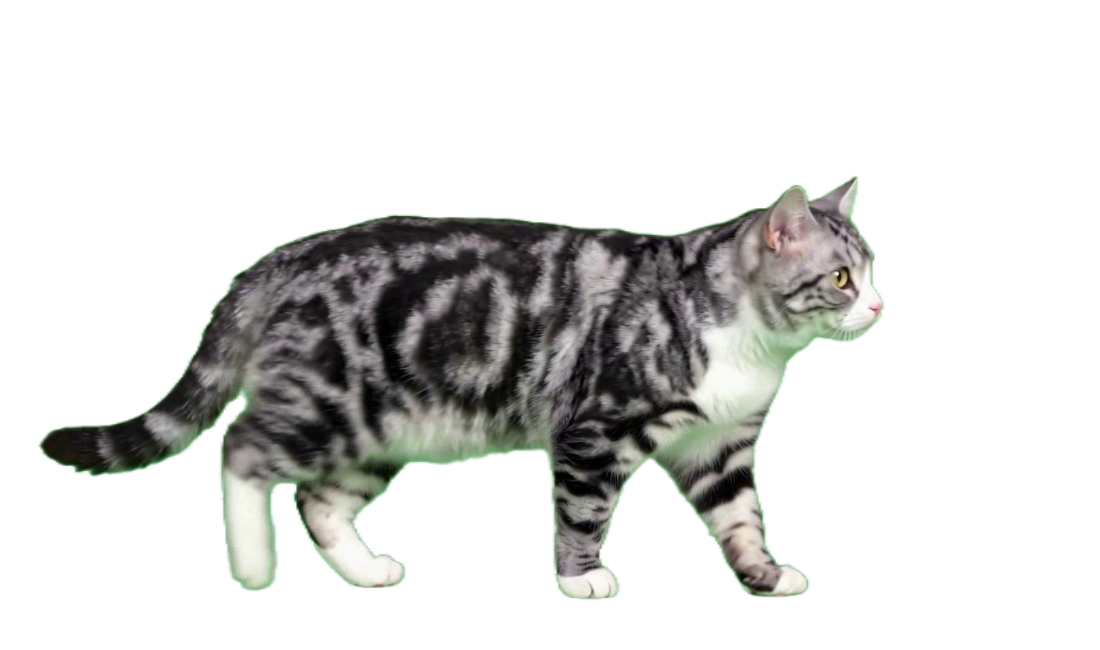
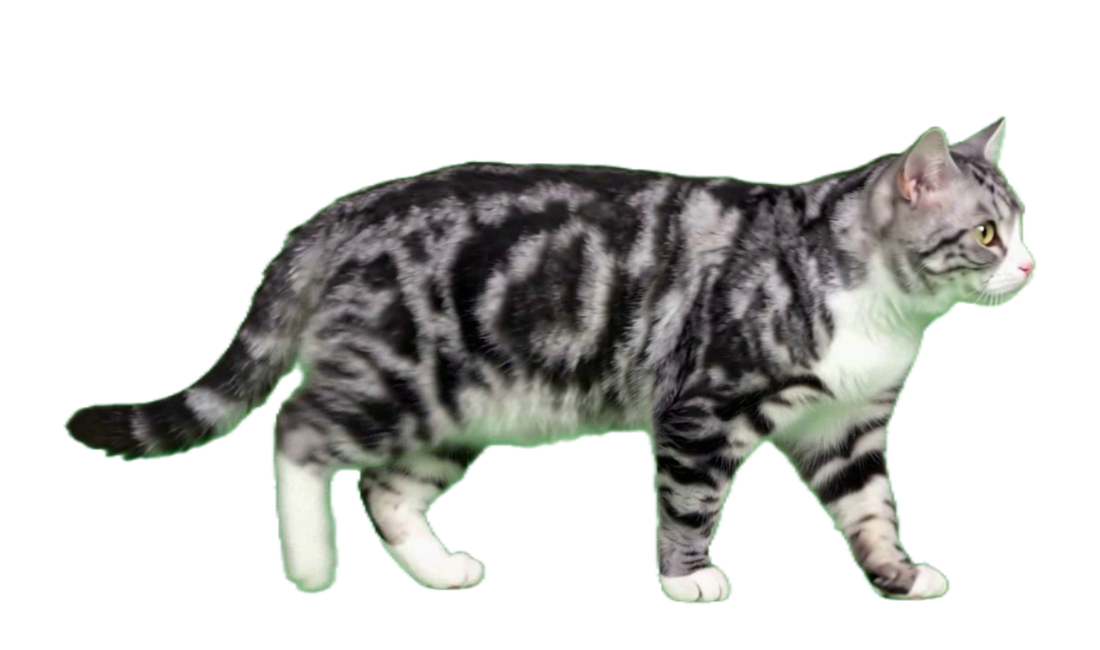
feat: make application fully portable and enable self-contained publishing

diff --git a/DockCatWin/Core/Assets/AssetPackLoader.cs b/DockCatWin/Core/Assets/AssetPackLoader.cs
@@ -56,8 +56,8 @@ public sealed class AssetPackLoader
     public string CustomPacksRoot()
     {
         return Path.Combine(
-            Environment.GetFolderPath(Environment.SpecialFolder.ApplicationData),
-            "DockCatWin",
+            AppContext.BaseDirectory,
+            "UserData",
             "AssetPacks");
     }
 
@@ -382,8 +382,8 @@ public sealed class AssetPackLoader
         var identity = $"v2-normalized|{root}|{manifest.Id}|{videoPath}|{info.Length}|{info.LastWriteTimeUtc.Ticks}|{frameCount}|{manifest.CanvasWidth}|{manifest.CanvasHeight}";
         var hash = Convert.ToHexString(SHA256.HashData(System.Text.Encoding.UTF8.GetBytes(identity)))[..16];
         return Path.Combine(
-            Environment.GetFolderPath(Environment.SpecialFolder.ApplicationData),
-            "DockCatWin",
+            AppContext.BaseDirectory,
+            "UserData",
             "VideoCache",
             SanitizePathSegment(manifest.Id),
             hash);

diff --git a/DockCatWin/Core/Backup/UserDataBackupStore.cs b/DockCatWin/Core/Backup/UserDataBackupStore.cs
@@ -18,8 +18,8 @@ public sealed class UserDataBackupStore
     public UserDataBackupStore()
     {
         var root = Path.Combine(
-            Environment.GetFolderPath(Environment.SpecialFolder.ApplicationData),
-            "DockCatWin",
+            AppContext.BaseDirectory,
+            "UserData",
             "DataBackup");
         backupFilePath = Path.Combine(root, "user-data-backup.json");
     }

diff --git a/DockCatWin/Core/Outing/CollectableInventoryStore.cs b/DockCatWin/Core/Outing/CollectableInventoryStore.cs
@@ -16,8 +16,8 @@ public sealed class CollectableInventoryStore
     public CollectableInventoryStore()
     {
         var root = Path.Combine(
-            Environment.GetFolderPath(Environment.SpecialFolder.ApplicationData),
-            "DockCatWin");
+            AppContext.BaseDirectory,
+            "UserData");
         inventoryPath = Path.Combine(root, "collectable-inventory.json");
     }
 

diff --git a/DockCatWin/Core/Statistics/UsageStatisticsStore.cs b/DockCatWin/Core/Statistics/UsageStatisticsStore.cs
@@ -16,8 +16,8 @@ public sealed class UsageStatisticsStore
     public UsageStatisticsStore()
     {
         var root = Path.Combine(
-            Environment.GetFolderPath(Environment.SpecialFolder.ApplicationData),
-            "DockCatWin");
+            AppContext.BaseDirectory,
+            "UserData");
         statisticsPath = Path.Combine(root, "usage-statistics.json");
     }
 

diff --git a/DockCatWin/Core/Settings/SettingsStore.cs b/DockCatWin/Core/Settings/SettingsStore.cs
@@ -16,8 +16,8 @@ public sealed class SettingsStore
     public SettingsStore()
     {
         var root = Path.Combine(
-            Environment.GetFolderPath(Environment.SpecialFolder.ApplicationData),
-            "DockCatWin");
+            AppContext.BaseDirectory,
+            "UserData");
         settingsPath = Path.Combine(root, "settings.json");
     }
 

diff --git a/review/codex_summary.md b/review/codex_summary.md
@@ -2,32 +2,35 @@
 
 ## Changed files
 
-- `DockCatWin/Resources/MyCat/poses/transition/stretch.png`
-- `DockCatWin/Resources/MyCat/poses/transition/yawn.png`
+- `DockCatWin/Resources/MyCat/animations/walk/walk_01.png`
+- `DockCatWin/Resources/MyCat/animations/walk/walk_02.png`
 - `review/task.md`
 - `review/codex_summary.md`
 
 ## Summary of edits
 
-- Validated all PNG assets in `C:\Users\17569\Desktop\去背景\processed` for expected dimensions and transparent corners.
-- Normalized the new `stretch.png` and `yawn.png` into the project target sizes:
-  - `stretch.png`: `1145 x 952`
-  - `yawn.png`: `1133 x 824`
-- Synced the validated assets into both the bundled project pack at `DockCatWin/Resources/MyCat` and the local runtime pack at `%APPDATA%\DockCatWin\AssetPacks\my-cat`.
-- Replaced the previous transition placeholder images with real stretch/yawn assets.
+- Rescaled `walk_01.png` and `walk_02.png` in `C:\Users\17569\Desktop\去背景\processed` so their cat subject height matches the later walk frames more closely.
+- Preserved transparent `1100 x 650` PNG canvases and kept the feet bottom-aligned around y=604.
+- Synced the corrected first two walk frames into both the bundled project pack at `DockCatWin/Resources/MyCat` and the local runtime pack at `%APPDATA%\DockCatWin\AssetPacks\my-cat`.
+
+## Before / after subject bounds
+
+- `walk_01.png`: `847 x 426` -> `974 x 490`
+- `walk_02.png`: `880 x 452` -> `954 x 490`
+- `walk_03.png`: unchanged `940 x 473`
+- `walk_04.png`: unchanged `974 x 504`
 
 ## Risk analysis
 
-- The PNGs have transparent corners and expected dimensions, but final visual quality still depends on manual in-app inspection at runtime scale.
-- Desktop source files include backup copies for the original large transition exports, but those are not part of the repository.
+- The first two frames are upscaled from existing PNGs, so they may be slightly softer than the original scale. The visual consistency gain should be more important for the walk loop.
+- Final judgment should be made in motion inside DockCatWin, not only from still-frame previews.
 
 ## Verification
 
-- Asset dimension and transparent-corner check passed for `stand`, `held`, `loaf`, `bread`, `stretch`, `yawn`, and `walk_01` through `walk_04`.
-- `dotnet build .\DockCatWin\DockCatWin.csproj` should be run before commit.
+- Rechecked all four walk frames for `1100 x 650` size and transparent corners.
+- Generated preview at `C:\Users\17569\Desktop\去背景\processed\walk_scaled_preview.png`.
 
 ## Suggested verification steps
 
-1. Start DockCatWin and confirm transition states show the custom stretch/yawn images instead of the previous stand placeholders.
-2. Drag the cat and confirm the held image uses the larger held display size.
-3. Watch walking/resting states and confirm all states use the bundled custom cat.
+1. Run DockCatWin and watch the walking animation loop.
+2. Confirm `walk_01` and `walk_02` no longer appear smaller than `walk_03` and `walk_04`.

diff --git a/review/task.md b/review/task.md
@@ -1,14 +1,18 @@
 # Task
 
-- Task description: Validate the processed custom cat assets, sync valid resources into the bundled and local `my-cat` asset pack, then build, commit, and push to GitHub.
+- Task description: Resize `walk_01.png` and `walk_02.png` so their cat subject scale matches `walk_03.png` and `walk_04.png`, then sync the corrected assets into the bundled and local `my-cat` asset packs.
 - Mode: Feature
 - Target files:
-  - `DockCatWin/Resources/MyCat/**`
-  - `%APPDATA%/DockCatWin/AssetPacks/my-cat/**`
+  - `C:\Users\17569\Desktop\去背景\processed\walk_01.png`
+  - `C:\Users\17569\Desktop\去背景\processed\walk_02.png`
+  - `DockCatWin/Resources/MyCat/animations/walk/walk_01.png`
+  - `DockCatWin/Resources/MyCat/animations/walk/walk_02.png`
+  - `%APPDATA%/DockCatWin/AssetPacks/my-cat/animations/walk/walk_01.png`
+  - `%APPDATA%/DockCatWin/AssetPacks/my-cat/animations/walk/walk_02.png`
   - `review/task.md`
   - `review/codex_summary.md`
 - Constraints:
-  - Verify PNG transparency and dimensions before copying.
-  - Preserve required asset pack structure and manifest.
-  - Do not commit user desktop source files, only project resources.
-  - Build verification should pass before commit.
+  - Preserve transparent PNG output and `1100 x 650` canvas size.
+  - Preserve aspect ratio; do not stretch the cat.
+  - Keep feet bottom-aligned with existing walk frames.
+  - Build verification should pass after syncing project resources.
